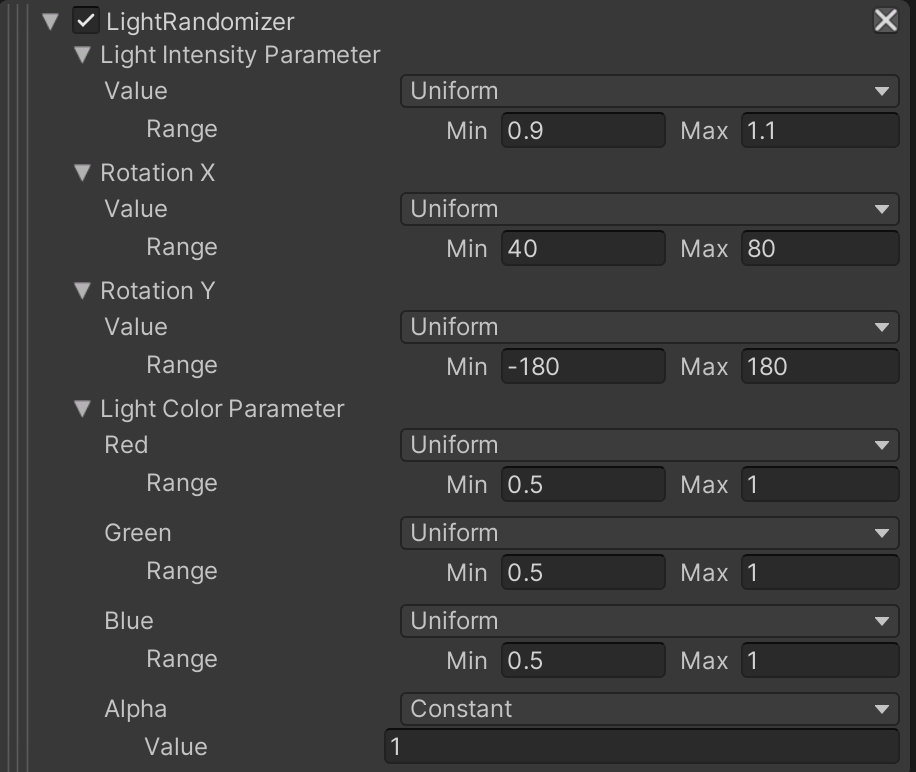
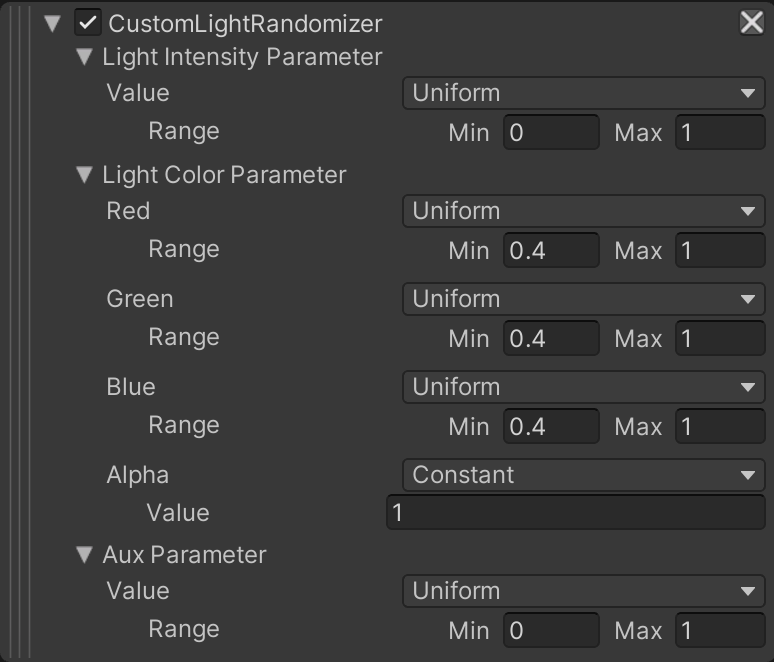
change the phase 1 and 2

diff --git a/inference/main.py b/inference/main.py
@@ -3,10 +3,10 @@ import torchvision
 import yaml
 import numpy as np
 from easydict import EasyDict
-from model.pose_estimation.pose_estimation_estimator import PoseEstimationEstimator
-from model.pose_estimation.drone_target_dataset import DroneTargetDataset
-from model.pose_estimation.model import PoseEstimationNetwork
-from model.pose_estimation.evaluate import evaluation_over_batch
+from Model.pose_estimation.pose_estimation_estimator import PoseEstimationEstimator
+from Model.pose_estimation.drone_target_dataset import DroneTargetDataset
+from Model.pose_estimation.model import PoseEstimationNetwork
+from Model.pose_estimation.evaluate import evaluation_over_batch
 import time
 import gc
 

diff --git a/inference/pose_estimation.py b/inference/pose_estimation.py
@@ -9,8 +9,8 @@ import sys
 sys.path.append('../train/pose_estimation')
 from PIL import Image, ImageOps
 
-from model.pose_estimation.model import PoseEstimationNetwork
-from model.pose_estimation.util import convert_image_to_tensor
+from Model.pose_estimation.model import PoseEstimationNetwork
+from Model.pose_estimation.util import convert_image_to_tensor
 
 def preprocess_image(path_image, device):
     """

diff --git a/Documentation/2_set_up_the_scene_for_data_collection.md b/Documentation/2_set_up_the_scene_for_data_collection.md
@@ -50,7 +50,7 @@ This Labeler will annotate the captured output with 3D bounding boxes of GameObj
 Once you add the Labeler, the ***Inspector*** view of the `Perception Camera` component will look like this:
 
 <p align="center">
-<img src="Images/2_perception_camera.png" width="500"/>
+<img src="Images/2_perception_camera.png" width="350" height="600"/>
 </p>
 
 
@@ -88,7 +88,7 @@ The `target_position` label is now added to both the `Target` object and the `Id
 The _**Inspector**_ view of the `Target` should look like the following:
 
 <p align="center">
-<img src="Images/2_target_label.png" height=650/>
+<img src="Images/2_target_label.png" height=450/>
 </p>
 
 6. Do the same for the `Drone`. Thus, add the label `drone_position` to the `IdLabelConfig`.
@@ -96,7 +96,7 @@ The _**Inspector**_ view of the `Target` should look like the following:
 7. Then, to check that you have setup the labels correctly, in the _**Project**_ tab, go in the `Assets` folder and click on `IdLabelConfig`. In the _**Inspector**_ view, you should see the following: 
 
 <p align="center">
-<img src="Images/2_id_label_config.png" height=150/>
+<img src="Images/2_id_label_config.png" height=250/>
 </p>
 
 
@@ -119,7 +119,7 @@ To start randomizing your simulation, you will first need to add a **Scenario** 
 3. Still in the _**Inspector**_ tab of the `Simulation Scenario` GameObject, ensure the `Training mode` flag is enabled.
 
 <p align="center">
-<img src="Images/2_scenario_train.png" height=500/>
+<img src="Images/2_scenario_train.png" height=400/>
 </p>
 
 Each Scenario executes a number of Iterations, and each Iteration carries on for a number of frames. These are timing elements you can leverage in order to customize your Scenarios and the timing of your randomizations. 
@@ -243,31 +243,37 @@ If you return to your list of Randomizers in the Inspector view of `Simulation S
 
 #### Randomizing Object Positions
 
-It is great that we can now rotate the cube, but we also want to move it around the table. However, not all positions on the table are valid - we also need it to be within the robot arm's reach. 
+It is great that we can now rotate the target and the drone, but we also want to move them in the space. However, we want the two objects to be seen by the camera when taking pictures. Even if the data will not be saved if the objects are not on the camera's frame (feature of the Perception package), it will be time saving to ensure the two objects are always seen by the camera. We decided to create an invisible 3D box that will define the allowed positions for the objects in the scene. 
 
-To save time, we have provided a pre-written custom Randomizer to do this. 
+13. In the _**Project**_ tab, go to `Assets/TutorialAssets/Prefabs/Part1` and drag and drop the `Box` Prefab into the _**Hierarchy**_ tab.
 
-13. Select the `Simulation Scenario` GameObject, and do the following:
-    * In the _**Inspector**_ tab, on the `Simulation Scenario` component, click `Add Randomizer` and start typing `RobotArmObjectPositionRandomizer`. 
-    * Set `Min Robot Reachability` to `0.2` and `Max Robot Reachability` to `0.4`. 
-    * On the `Plane` field, click on the circular button to the right side and start typing `ObjectPlacementPlane` and then double click on the GameObject that appears. 
-    * Drag and drop the base of the robot from the ***Hierarchy*** (the `ur3_with_gripper/world/base_link/base` object) to the `Robot Base` field.
+Now we need to have the position randomizer. To save time, we have provided a pre-written custom Randomizer to do this. 
+
+14. Select the `Simulation Scenario` GameObject, and do the following:
+    * In the _**Inspector**_ tab, on the `Simulation Scenario` component, click `Add Randomizer` and start typing `ObjectPositionRandomizer`. 
+    * On the `Box` field, click on the circular button to the right side and start typing `Box` and then double click on the GameObject that appears. 
+    * On the `Drone` field, click on the circular button to the right side and start typing `Drone` and then double click on the GameObject that appears. 
 
 <p align="center">
 <img src="Gifs/2_robot_randomizer_settings.gif" height=658 width=950/>
 </p>
 
-13.  Now we need to add the corresponding RandomizerTag to the cube. 
-    * Select the `Cube` GameObject and in the _**Inspector**_ tab, click on the _**Add Component**_ button. Start typing `RobotArmObjectPositionRandomizerTag` in the search bar that appears, until the `RobotArmObjectPositionRandomizerTag` script is found, with a **#** icon to the left. Click on the script. 
-    * In the UI for this new component, enable the `Must Be Reachable` property. 
+15.  Now we need to add the corresponding RandomizerTag to the target and the drone. 
+    * Select the `Target` GameObject and in the _**Inspector**_ tab, click on the _**Add Component**_ button. Start typing `ObjectPositionRandomizerTag` in the search bar that appears, until the `ObjectPositionRandomizerTag` script is found, with a **#** icon to the left. Click on the script. 
+    * In the UI for this new component, enable the `Down Object` property. This will ensure that the target is always in the first 2/3 volume of box, and thus in the first 2/3 of the camera's frame.
 
-The `RobotArmObjectPositionRandomizerTag` component should now look like this:
+The `ObjectPositionRandomizerTag` component should now look like this:
 
 <p align="center">
 <img src="Images/2_RobotArmReachablePositionRandomizerSetting.png" width=500/>
 </p>
 
-If you press **▷** (play) now, you should see the `Cube` and `Goal` objects moving around the robot with the cube rotating on each frame.
+16.  Now we need to add the corresponding RandomizerTag to the target and the drone. 
+    * Select the `Drone` GameObject and in the _**Inspector**_ tab, click on the _**Add Component**_ button. Start typing `ObjectPositionRandomizerTag` in the search bar that appears, until the `ObjectPositionRandomizerTag` script is found, with a **#** icon to the left. Click on the script. 
+    * In the UI for this new component, enable the `Up Object` property. This will ensure that the target is always in the last 1/3 volume of box, and thus in the last 1/3 of the camera's frame.
+
+
+If you press **▷** (play) now, you should see the `Target` and `Drone` objects moving around.
 
 <p align="center">
 <img src="Gifs/2_object_position_randomizer.gif" height=388 width=800/>
@@ -277,11 +283,10 @@ If you press **▷** (play) now, you should see the `Cube` and `Goal` objects mo
 
 Now we will add another Randomizer to introduce some variation into the Scene's lighting. 
 
-14.  Select the `Simulation Scenario` GameObject and in the _**Inspector**_ tab, on the `Pose Estimation Scenario` component, click on `Add Randomizer` and start typing `LightRandomizer`. 
-    * For the range parameter of `Light Intensity Parameter`, set `Min` to `0.9` and `Max` to `1.1`. 
-    * For the range parameter of `Rotation X`, set `Min` to `40` and `Max` to `80`. 
-    * For the range parameter of `Rotation Y`, set `Min` to `-180` and `Max` to `180`. 
-    * For the range parameters of `Red`, `Green` and `Blue` inside of `Light Color Parameter`, set `Min` to `0.5`. 
+17.  Select the `Simulation Scenario` GameObject and in the _**Inspector**_ tab, on the `Pose Estimation Scenario` component, click on `Add Randomizer` and start typing `CustomLightRandomizer`. 
+    * For the `red` parameter of `Light Color Parameter`, set `Min` to `0.4` and `Max` to `1.0`. 
+    * For the `green` parameter of `Light Color Parameter`, set `Min` to `0.4` and `Max` to `1.0`.
+    * For the `blue` parameter of `Light Color Parameter`, set `Min` to `0.4` and `Max` to `1.0`.
     
 The Randomizer should now look like this: 
 
@@ -289,16 +294,12 @@ The Randomizer should now look like this:
 <img src="Images/2_light_randomizer_settings.png" height=450/>
 </p>
 
-15.  Now we need to add a RandomizerTag to the light. Select the `Directional Light` GameObject and in the _**Inspector**_ tab, click on the _**Add Component**_ button. Start typing `LightRandomizerTag` in the search bar that appears, until the `LightRandomizerTag` script is found, with a **#** icon to the left. Click the script.
+18.  Now we need to add a RandomizerTag to the lights. Click on the arrow on the left of the `Lights` GameObject. You should now see multiple `Direction Light` objects. Click on the `Direction Light (1)` and in the _**Inspector**_ tab, click on the _**Add Component**_ button. Start typing `CustomLightRandomizerTag` in the search bar that appears, until the `CustomLightRandomizerTag` script is found, with a **#** icon to the left. Click the script.
 
 To view this script, you can right click on the three dots at the right end and select `Edit Script`. 
 This Randomizer is a bit different from the previous ones. The line `[RequireComponent(typeof(Light))]` makes it so that you can only add the `LightRandomizerTag` component to an object that already has a **Light** component attached. This way, the Randomizers that query for this tag can be confident that the found objects have a **Light** component.
 
-If you press play, you should see that the color, direction, and intensity of the lighting now change with each frame.
-
-<p align="center">
-<img src="Gifs/2_light_randomizer.gif" height=600/>
-</p>
+19. Repeat the same action for the `Direction Light (2)`, `Direction Light (3)` and `Direction Light (4)`.
 
 ### Proceed to [Part 3](3_data_collection_and_model_training.md).
 

diff --git a/Documentation/3_data_collection_and_model_training.md b/Documentation/3_data_collection_and_model_training.md
@@ -29,7 +29,7 @@ We have chosen a training dataset of 30,000 images and a validation dataset of 3
 
 1. Select the `Simulation Scenario` GameObject and in the _**Inspector**_ tab, make sure `Automatic Iteration` is enabled. When this flag is enabled, our Scenario automatically proceeds through Iterations, triggering the `OnIterationStart()` method of all Randomizers on each Iteration. When this flag is disabled, the Iterations would have to be triggered manually. 
 
-2. In the ***Inspector*** view of  `Pose Estimation Scenario`, set the `Total Frames` field under `Constants` to 30000.
+2. In the ***Inspector*** view of  `Pose Estimation Scenario`, set the `Total Frames` field under `Constants` to 40000.
 
 3. Press play and wait until the simulation is done. It should take a bit of time (~10 min).
 
@@ -41,7 +41,7 @@ We have chosen a training dataset of 30,000 images and a validation dataset of 3
 
 5. Click _**Show Folder**_ to show and highlight the folder in your operating system's file explorer.
 
-6. Change this folder's name to `UR3_single_cube_training`.   
+6. Change this folder's name to `Drone_pose_estimation_training`.   
 
 7. Enter the folder
 
@@ -52,21 +52,21 @@ You should then see something similar to this:
 
 Now we need to collect the validation dataset. 
 
-8. Back in Unity Editor, Select the `Simulation Scenario` GameObject and in the _**Inspector**_ tab, in `Pose Estimation Scenario`, set the `Total Frames` field under `Constants` to 3000.
+8. Back in Unity Editor, Select the `Simulation Scenario` GameObject and in the _**Inspector**_ tab, in `Pose Estimation Scenario`, set the `Total Frames` field under `Constants` to 4000.
 
 9. Press play and wait until the simulation is done. Once the simulation finishes, follow the same steps as before to navigate to the output folder.
 
-10. Change the folder name where the latest data was saved to `UR3_single_cube_validation`. 
+10. Change the folder name where the latest data was saved to `Drone_pose_estimation_validation`. 
 
-11. **(Optional)**: Move the `UR3_single_cube_training` and `UR3_single_cube_validation` folders to a directory of your choice.  
+11. **(Optional)**: Move the `Drone_pose_estimation_training` and `Drone_pose_estimation_validation` folders to a directory of your choice.  
 
 
 ## <a name="step-2">Train the Deep Learning Model</a>
 Now it's time to train our deep learning model! We've provided the model training code for you, but if you'd like to learn more about it - or make your own changes - you can dig into the details [here](../Model).
 
-This step can take a long time if your computer doesn't have GPU support (~5 days on CPU). Even with a GPU, it can take around ~10 hours. We have provided an already trained model as an alternative to waiting for training to complete. If you would like to use this provided model, you can proceed to [Part 4](4_pick_and_place.md).
+This step can take a long time if your computer doesn't have GPU support (~5 days on CPU). Even with a GPU, it can take around ~10 hours. We have provided an already trained model as an alternative to waiting for training to complete. If you would like to use this provided model, you can proceed to [Part 4](4_setup_grpc_connection.md).
 
-1. Navigate to the `Robotics-Object-Pose-Estimation/Model` directory.
+1. Navigate to the `Drone-Pose-Estimation/Model` directory.
 
 ### Requirements
 
@@ -81,7 +81,7 @@ To run this project locally, you will need to install [Anaconda](https://docs.an
 
 If running locally without Docker, we first need to create a Conda virtual environment and install the dependencies for our machine learning model. If you only have access to CPUs, install the dependencies specified in the `environment.yml` file. If your development machine has GPU support, you can choose to use the `environment-gpu.yml` file instead.
 
-2. In a terminal window, enter the following command to create the environment. Replace `<env-name>` with an environment name of your choice, e.g. `pose-estimation`:
+2. In a terminal window, enter the following command to create the environment. Replace `<env-name>` with an environment name of your choice, e.g. `drone-pose-estimation`:
 ```bash
 conda env create -n <env-name> -f environment.yml
 ```
@@ -101,7 +101,7 @@ There are a few settings specific to your setup that you'll need to change.
 
 First, we need to specify the path to the folders where your training and validation data are saved:
 
-4. In the [config.yaml](../Model/config.yaml), under `system`, you need to set the argument `data/root` to the path of the  directory containing your data folders. For example, since I put my data (`UR3_single_cube_training` and `UR3_single_cube_validation`) in a folder called `data` in Documents, I set the following:
+4. In the [config.yaml](../Model/config.yaml), under `system`, you need to set the argument `data/root` to the path of the  directory containing your data folders. For example, since I put my data (`Drone_pose_estimation_training` and `Drone_pose_estimation_validation`) in a folder called `data` in Documents, I set the following:
 ```bash
   data_root: /Users/<user-name>/Documents/data
 ```
@@ -115,7 +115,7 @@ log_dir_system: /Users/<user-name>/Documents/models
 
 ### Training the model
 
-6. If you are not already in the `Robotics-Object-Pose-Estimation/Model` directory, navigate there. 
+6. If you are not already in the `Drone-Pose-Estimation/Model` directory, navigate there.
 
 7. Enter the following command to start training: 
 ```bash 
@@ -136,7 +136,7 @@ However, first we need to specify a few settings in our config file.
 
 8. In [config.yaml](../Model/config.yaml), under `checkpoint`, you need to set the argument `log_dir_checkpoint` to the path where you have saved your newly trained model.
 
-9. If you are not already in the `Robotics-Object-Pose-Estimation/Model` directory, navigate there.
+9. If you are not already in the `Drone-Pose-Estimation/Model` directory, navigate there.
 
 10. To start the evaluation run, enter the following command: 
 ```bash 

diff --git a/Documentation/1_create_unity_project_with_unity_packages.md b/Documentation/1_create_unity_project_with_unity_packages.md
@@ -131,9 +131,9 @@ A Prefab is just a file, and you can easily create an instance of the object in 
 
 For your convenience, we have provided Prefabs for most of the components of the scene (the cube, goal, table, and floor).
 
-6. In the _**Project**_ tab, go to `Assets/TutorialAssets/Prefabs/Part1` and drag and drop the `Cube` Prefab into the _**Hierarchy**_ tab.
+6. In the _**Project**_ tab, go to `Assets/TutorialAssets/Prefabs/Part1` and drag and drop the `Target` Prefab into the _**Hierarchy**_ tab.
 
-7. Repeat the above action with the `Goal`, `Table` and `Floor` Prefabs. 
+7. Repeat the above action with the `Drone` and `Wall` Prefabs. 
 
 
 <p align="center">

diff --git a/README.md b/README.md
@@ -26,7 +26,7 @@ git clone git@github.com:Unity-Technologies/drone-pose-estimation-navigation.git
 - [Part 5: Navigation and Inference](#link-part-5)
 
 ---
-### <a name="link-part-1">[Part 1: Setting up Unity scene for data collection](Documentation/1_set_up_the_scene_for_data_collection.md)</a>
+### <a name="link-part-1">[Part 1: Setting up Unity scene for data collection](Documentation/1_create_unity_project_with_unity_packages.md)</a>
 
 <img src="Documentation/Images/0_scene.png" width=400 />
  
